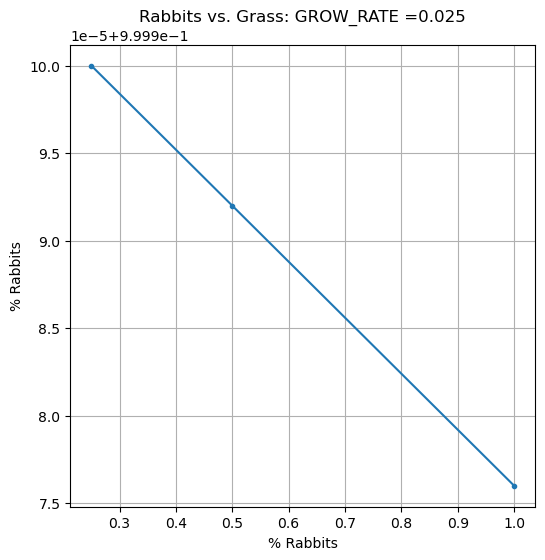
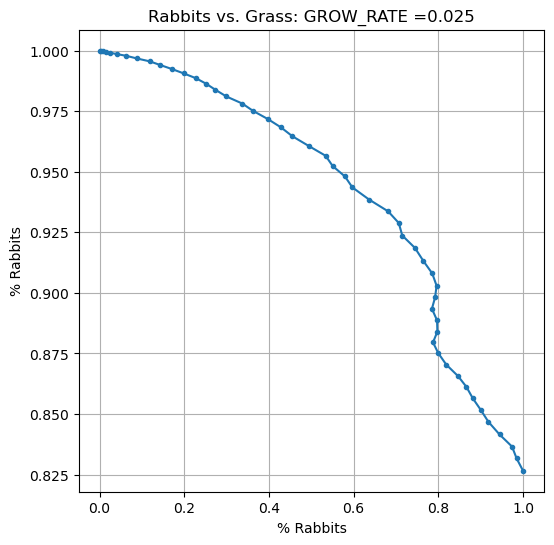
animal count

diff --git a/ic_alife.py b/ic_alife.py
@@ -91,6 +91,7 @@ class Field:
         and initially no rabbits """
         self.rabbits = []
         self.nrabbits = []
+        self.nfoxes = []
         self.ngrass = []
         self.size = size
         self.field = np.ones(shape=(self.size, self.size), dtype=int)
@@ -129,7 +130,8 @@ class Field:
         self.rabbits += born
 
         # Capture field state for historical tracking
-        self.nrabbits.append(self.num_rabbits())
+        self.nrabbits.append(len(self.num_animals()[2]))
+        self.nfoxes.append(len(self.num_animals()[3]))
         self.ngrass.append(self.amount_of_grass())
 
     def grow(self):
@@ -143,16 +145,19 @@ class Field:
             rabbits[r.x, r.y] = r.id
         return rabbits
 
-    def num_rabbits(self):
+    def num_animals(self):
         """ How many rabbits are there in the field ? """
         num_dict = {}
 
         # add empty lists to the dict for each id present
-        # for r in self.rabbits:
-        #     num_dict[r.id] = []
+        for r in self.rabbits:
+            num_dict[r.id] = []
 
+        for r in self.rabbits:
+            num_dict[r.id] += [r]
 
-        return len([r for r in self.rabbits if r.id == 2])
+        return num_dict
+        # return len([r for r in self.rabbits if r.id == 2])
 
     def amount_of_grass(self):
         return self.field.sum()
@@ -177,6 +182,12 @@ class Field:
             xs = [x / maxrabbit for x in xs]
             plt.xlabel("% Rabbits")
 
+        xf = self.nfoxes[:]
+        if showPercentage:
+            maxfox = max(xf)
+            xf = [x / maxfox for x in xf]
+            plt.xlabel("% Foxes")
+
         ys = self.ngrass[:]
         if showPercentage:
             maxgrass = max(ys)
@@ -185,6 +196,7 @@ class Field:
 
         if showTrack:
             plt.plot(xs, ys, marker=marker)
+            plt.plot(xf, ys, marker=marker)
         else:
             plt.scatter(xs, ys, marker=marker)
 
@@ -276,7 +288,7 @@ def main():
     # for _ in range(init_fox):
     #     field.add_rabbit(Rabbit(3, 1, 1, fox_k, (2,), fsize))
 
-    for _ in range(1):
+    for _ in range(10):
         field.add_rabbit(Rabbit(2, 1, 1, 1, (1,), fsize))
 
     # add fox
